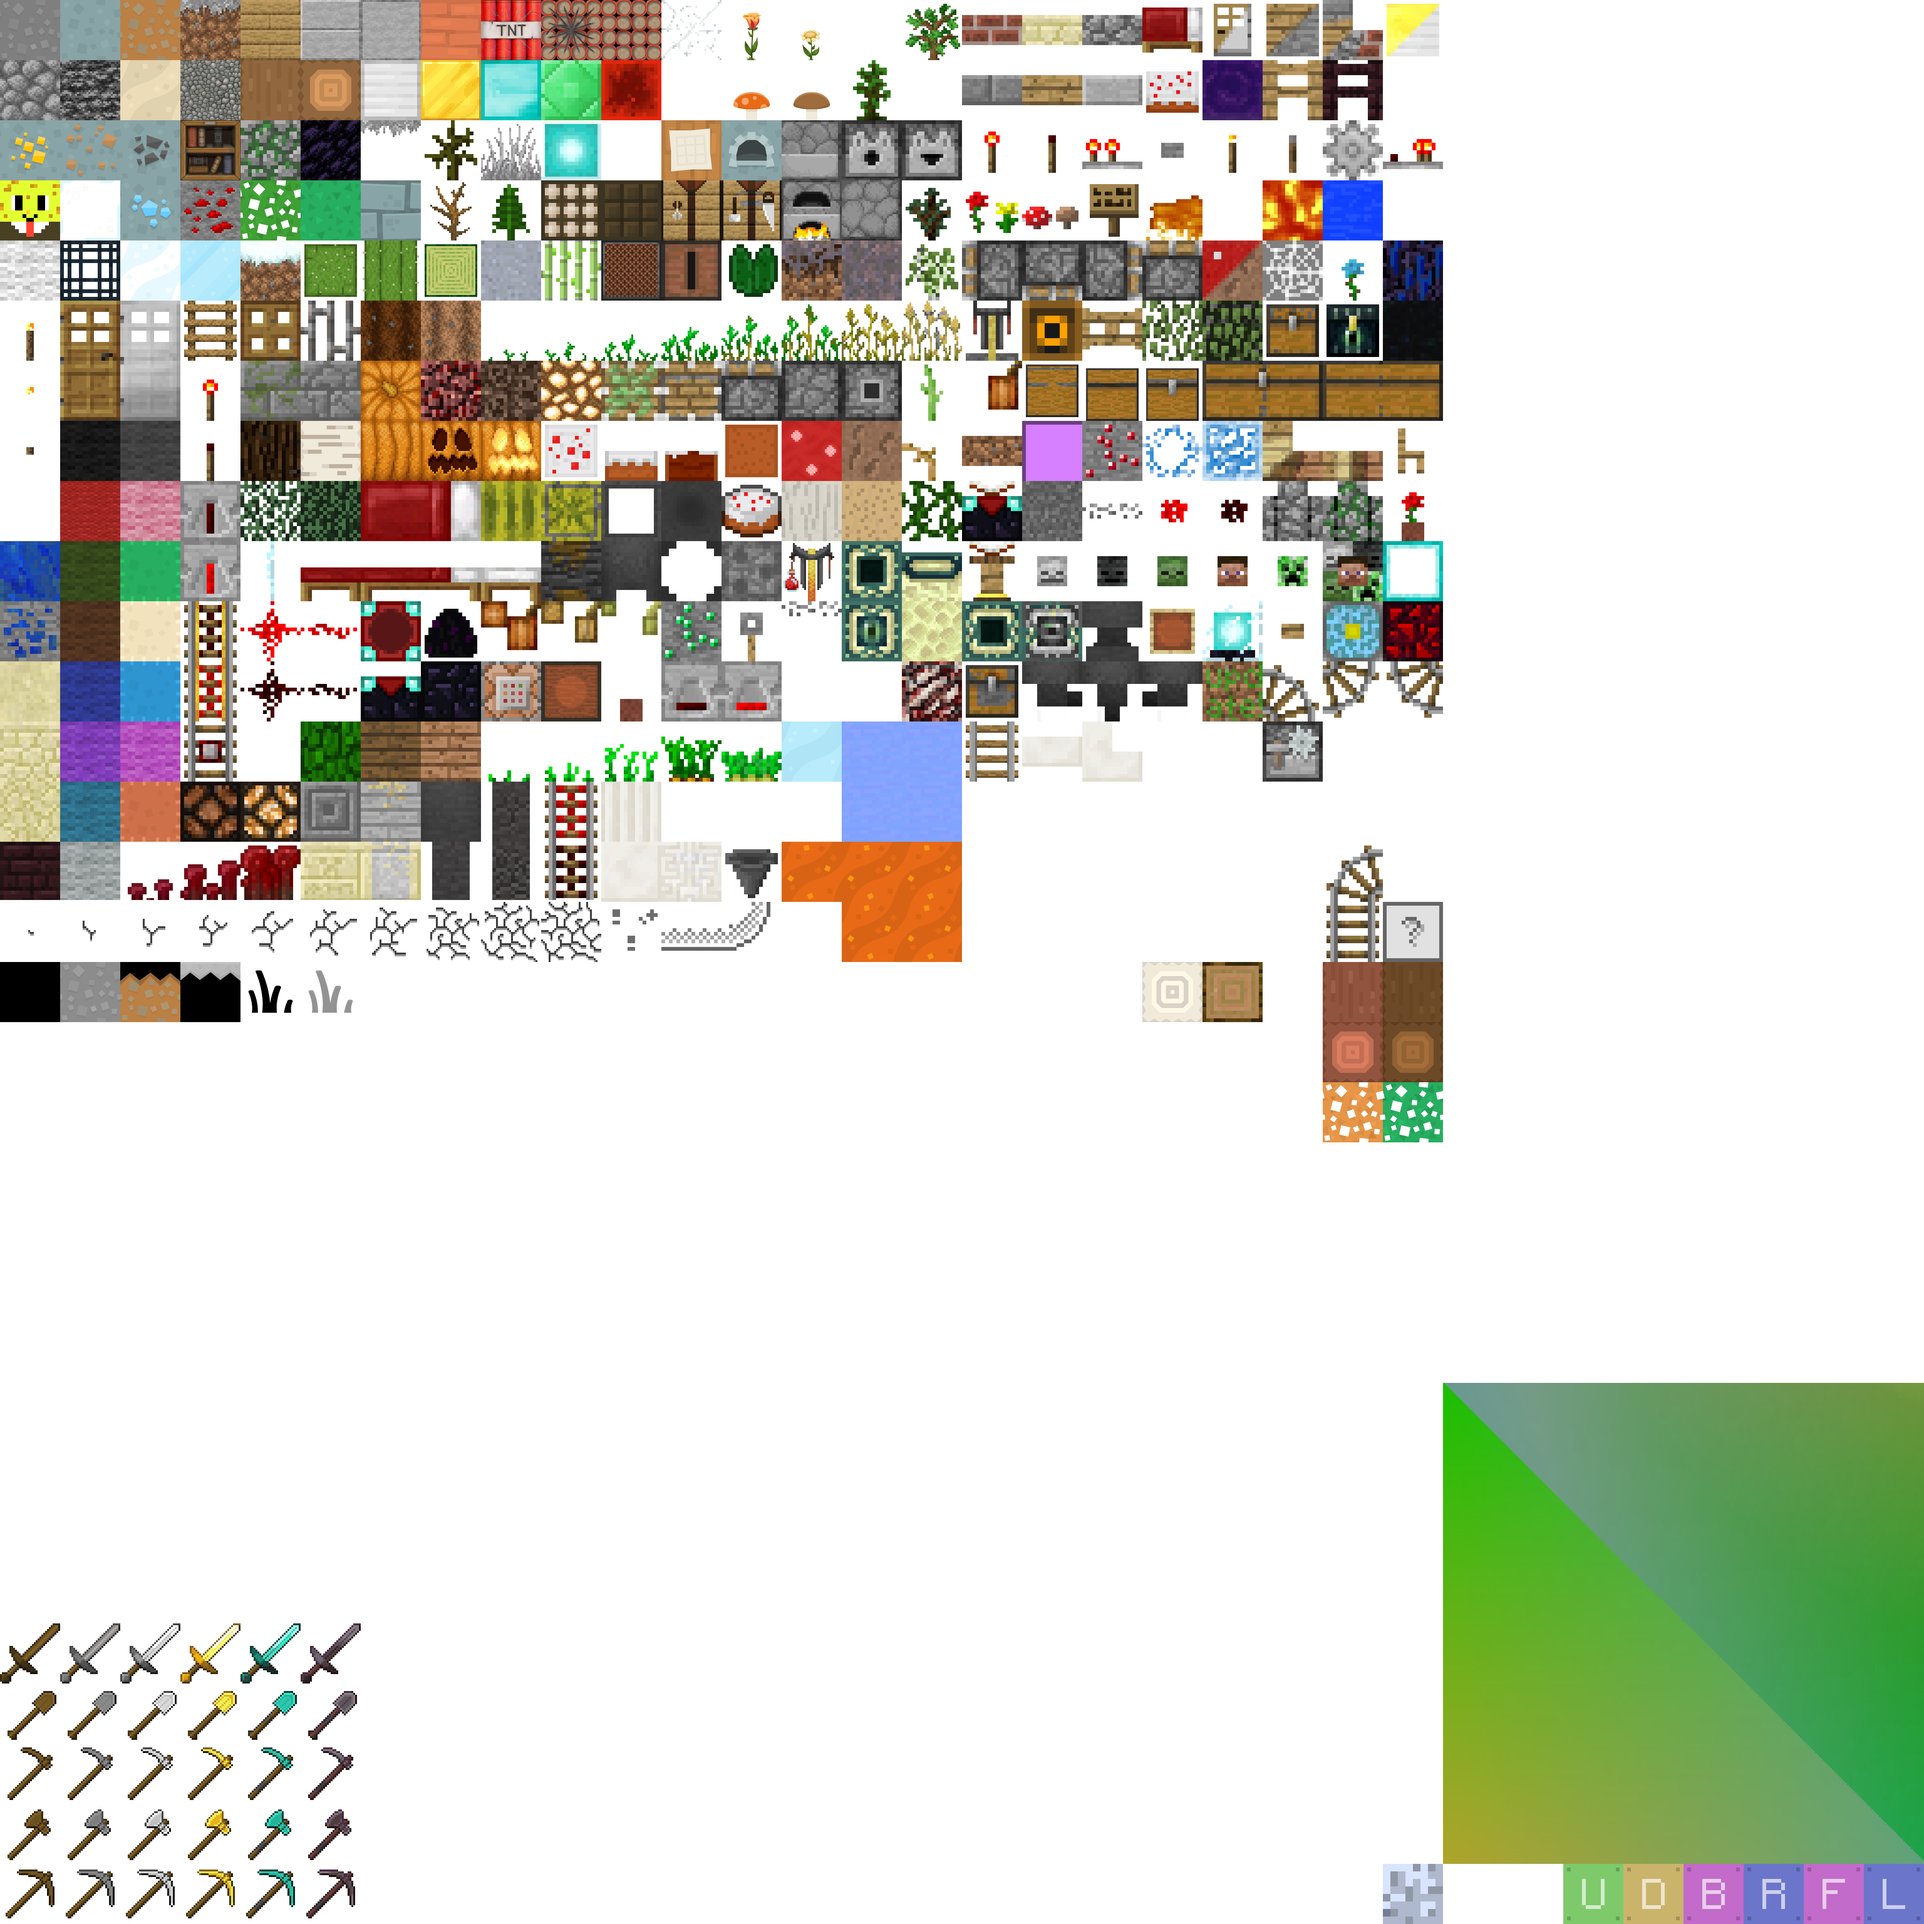
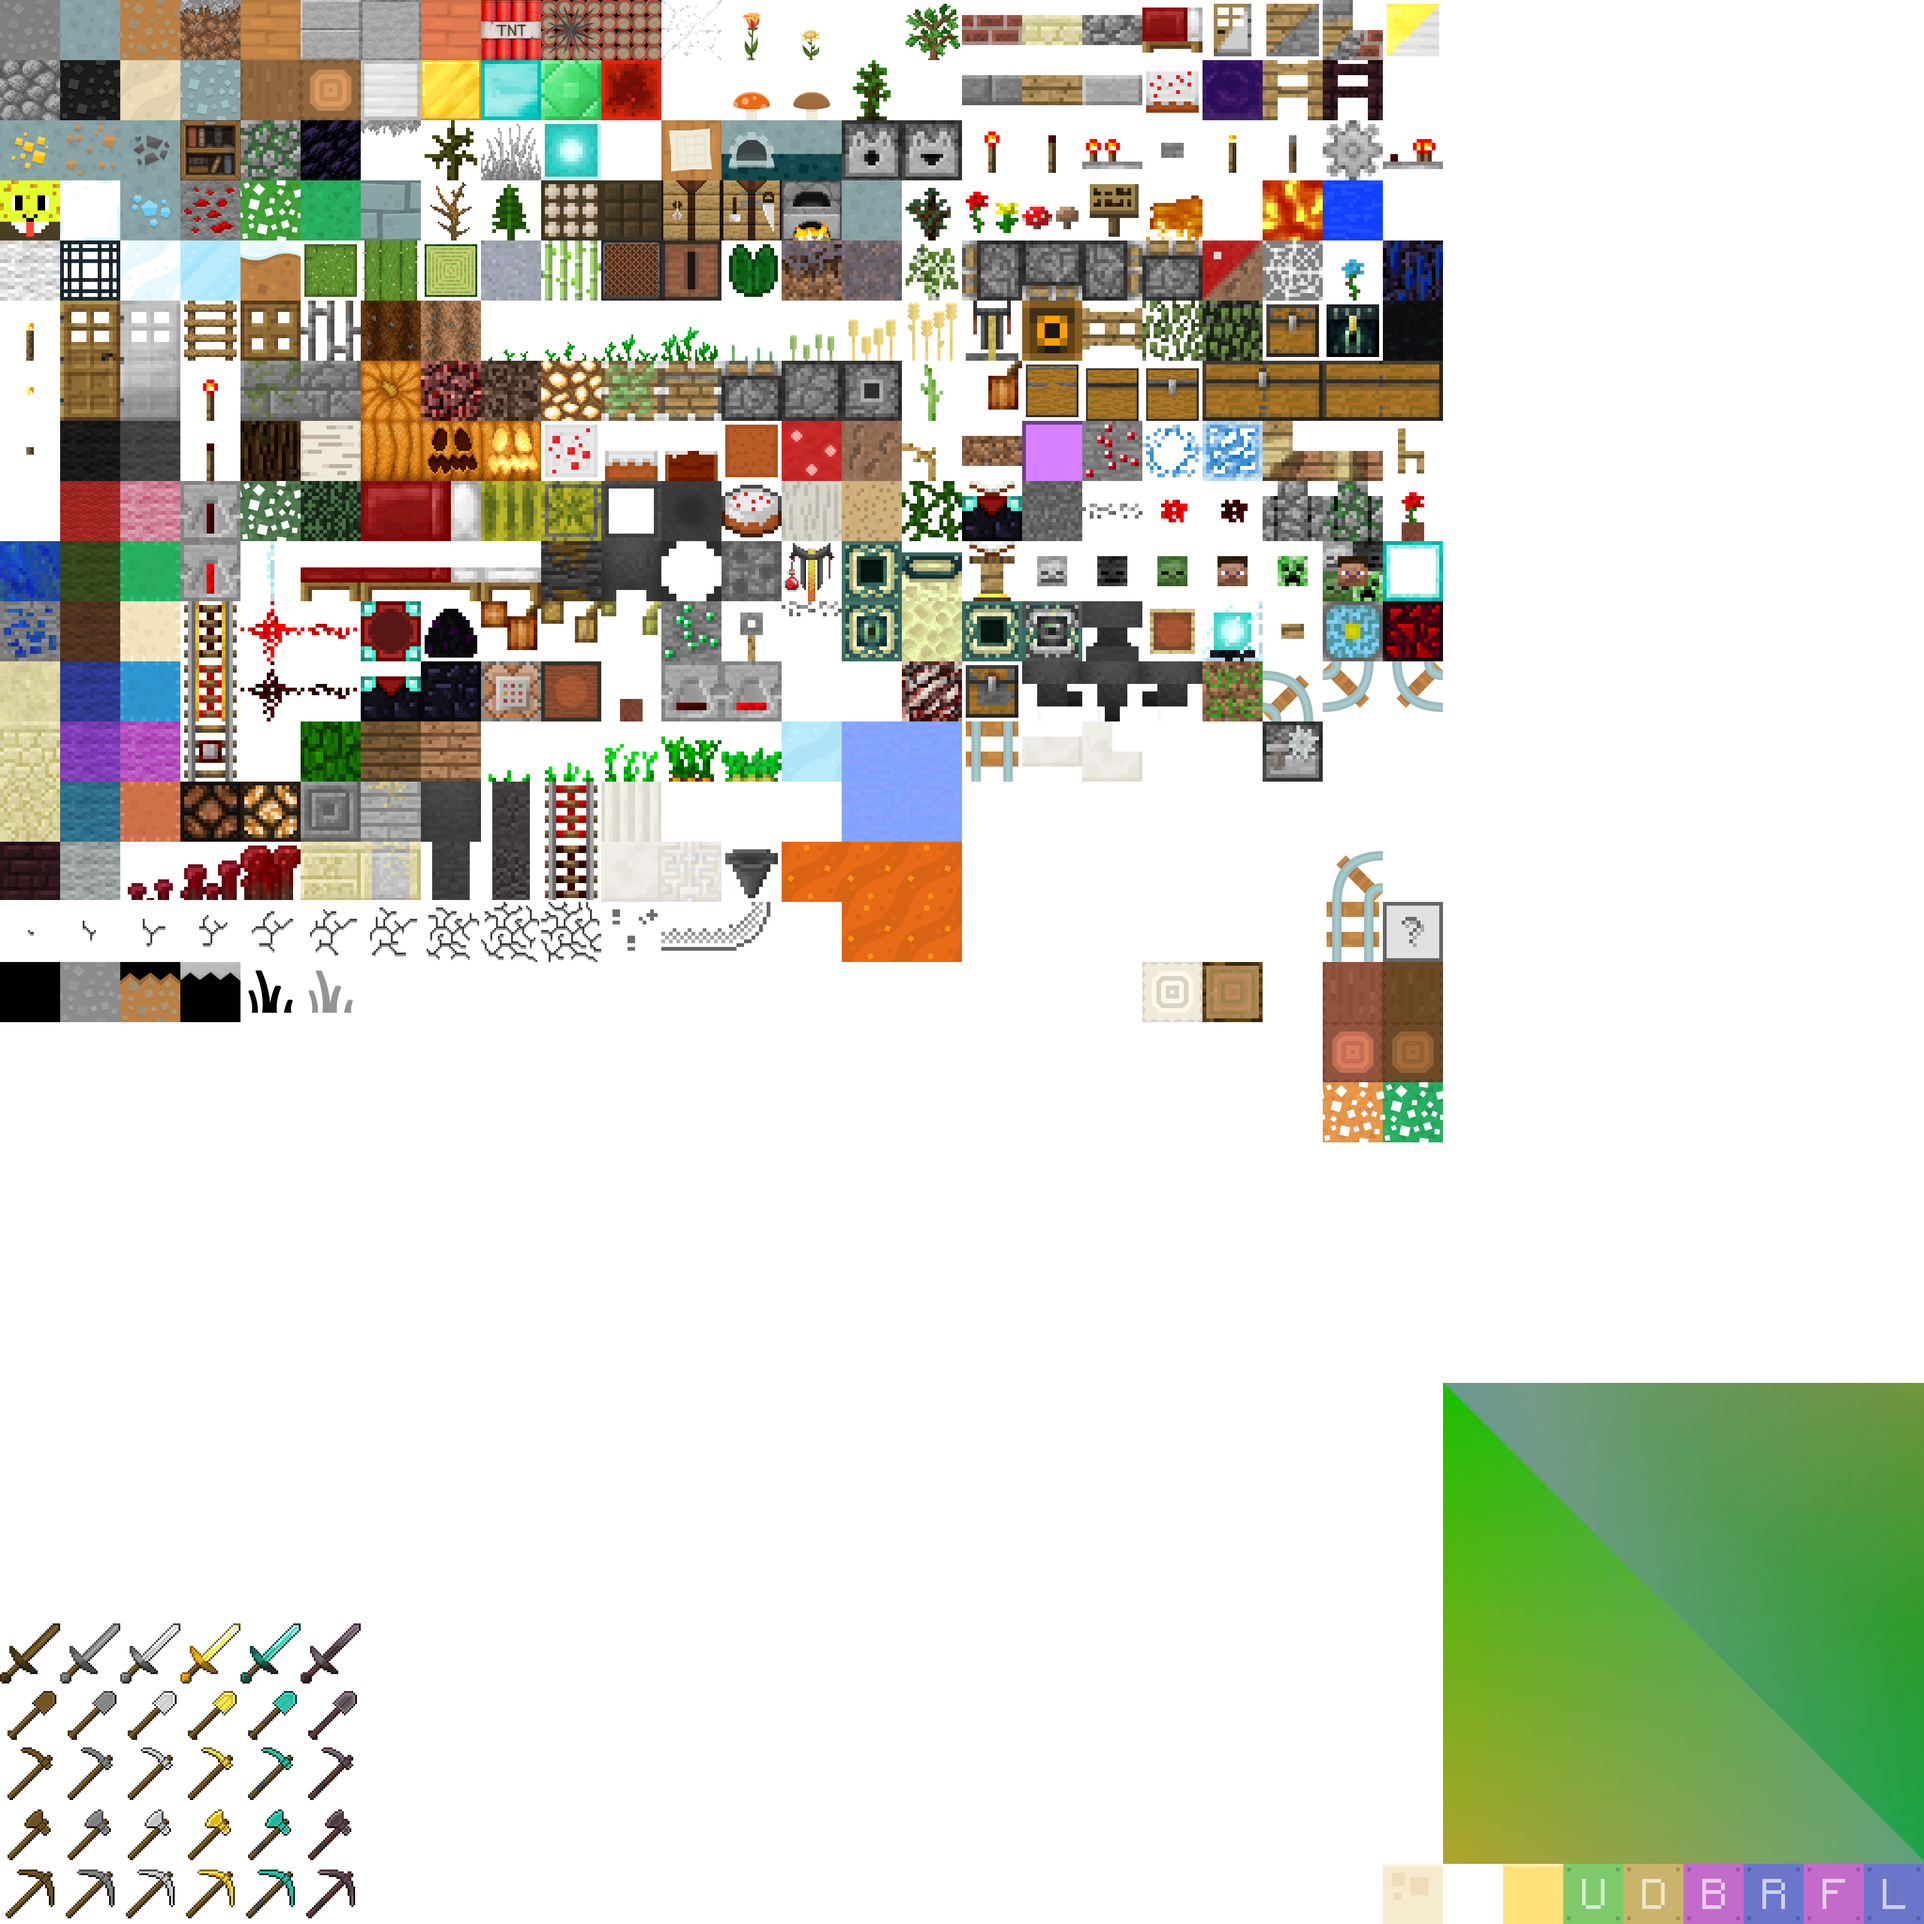
3dchunk

diff --git a/www/js/controller.js b/www/js/controller.js
@@ -39,7 +39,7 @@ let gameCtrl = function($scope, $timeout) {
     $scope.settings = {
         form: {
             hd: false,
-            texture_pack: 'terrain_hd',
+            texture_pack: 'terrain_kenney',
             mipmap: false
         },
         save: function() {
